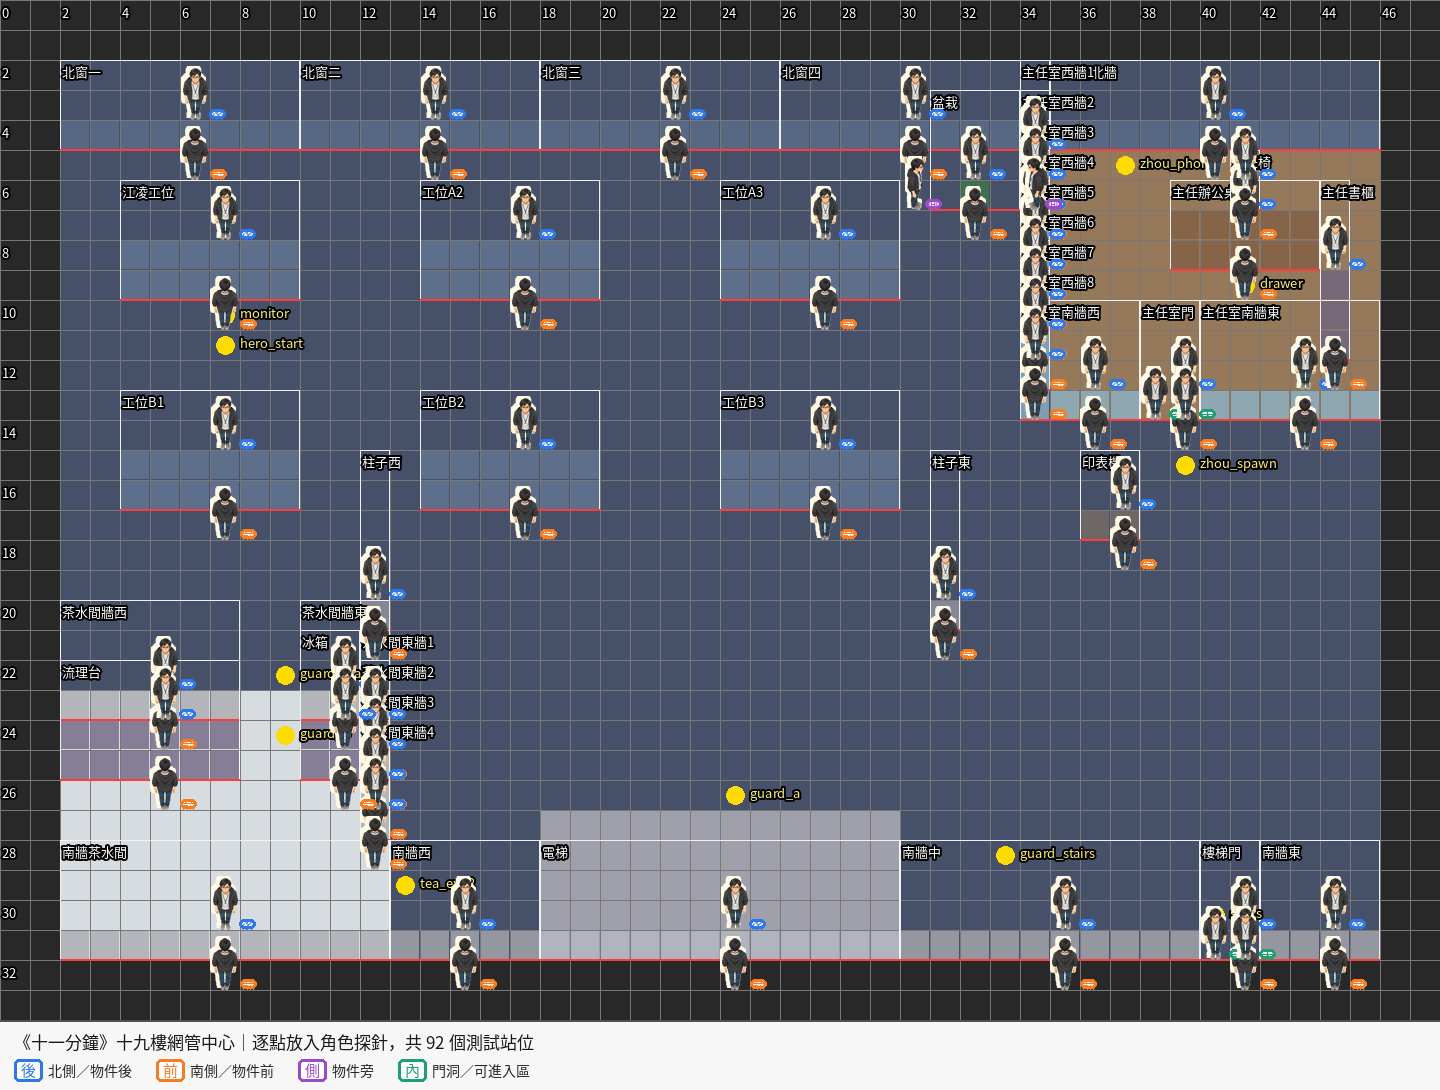
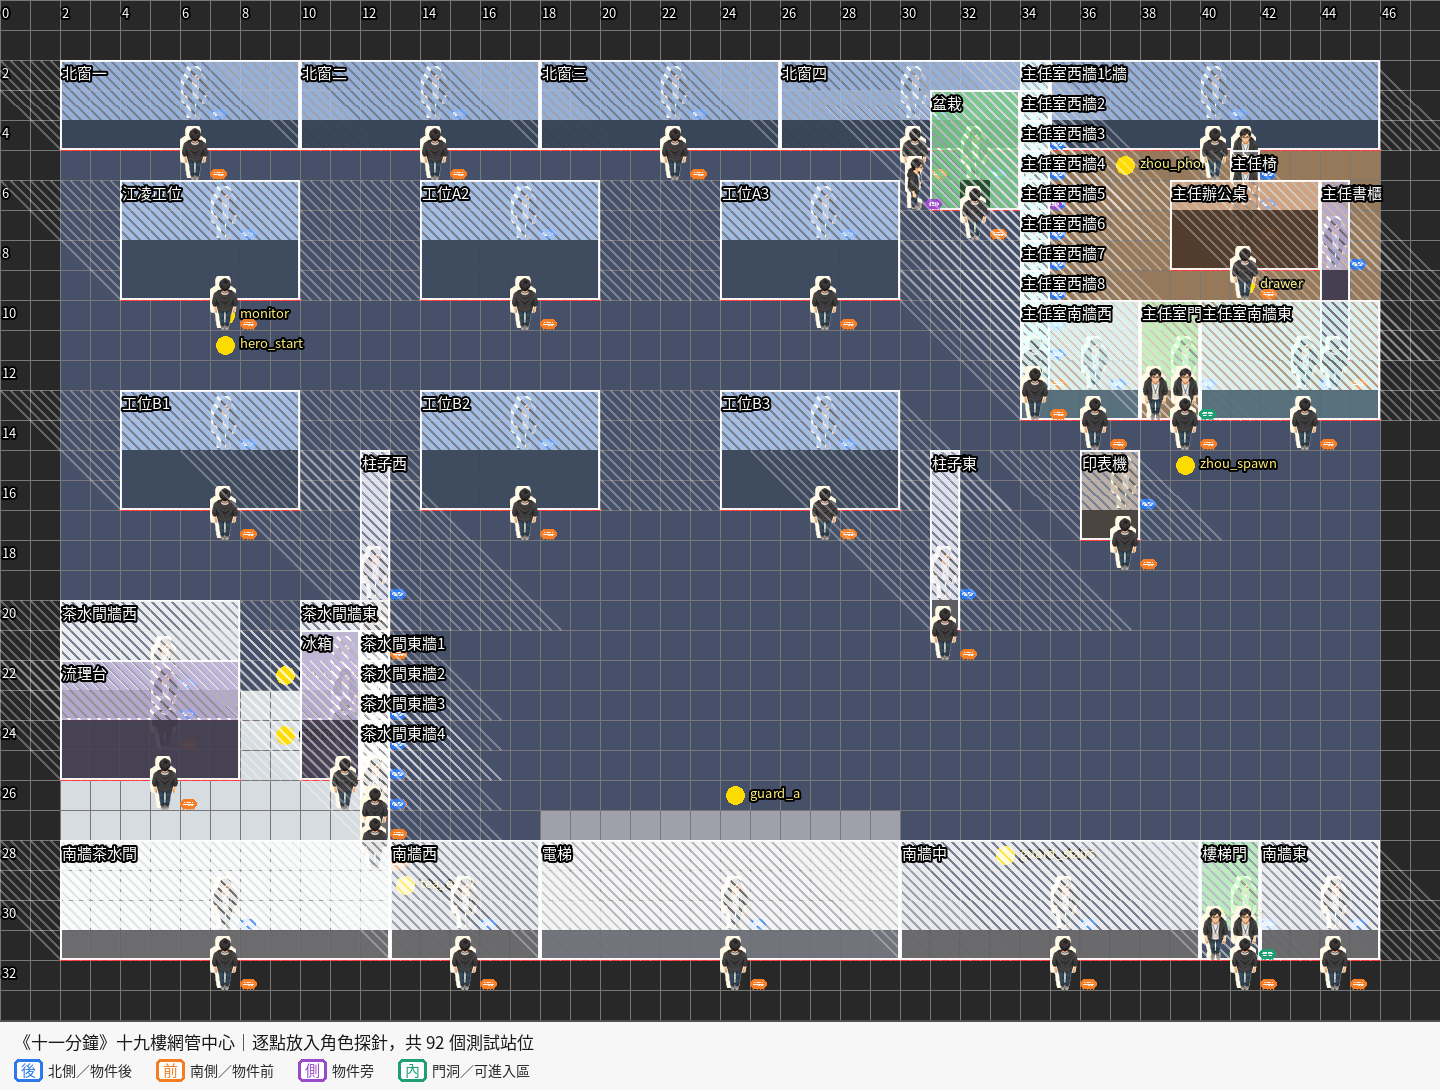
修正地圖測試角色的前後遮擋

diff --git a/_posts/2026-10-13-larch-rpg-map-occlusion.md b/_posts/2026-10-13-larch-rpg-map-occlusion.md
@@ -12,7 +12,7 @@ author: Yaze Lin
 
 我在製作《仙泉．香布纏．續》、《王子姬》和《十一分鐘》的地圖時，先用不同顏色的格子、透明圖框和測試角色確認空間關係。我和 AI 對著同一張色塊圖看動線、碰撞和前後順序，確認後才開始製作正式地圖。這個順序讓地圖設計能先被看見、討論和修改，之後才進入美術製作。
 
-本文的色塊圖依三個專案目前的地圖設計重新輸出，角色探針按現有物件座標重畫，呈現逐點放入角色確認遮擋的方法；每個圖示代表不同回合的一個測試站位。實際效果圖則於 2026 年 10 月 13 日從各作品目前的 Larch 本機預覽重新擷取。
+本文的色塊圖依三個專案目前的地圖設計重新輸出，角色探針按現有物件座標重畫，呈現逐點放入角色確認遮擋的方法；每個圖示代表不同回合的一個測試站位。合成時也依實際排序列放置物件色塊：斜紋遮罩蓋住物件後方的角色，站在排序列前方的角色則顯示在色塊上層。實際效果圖則於 2026 年 10 月 13 日從各作品目前的 Larch 本機預覽重新擷取。
 
 ## 先分清楚「站在哪裡」和「畫到哪裡」
 
@@ -27,7 +27,7 @@ author: Yaze Lin
 
 ## 先把地圖畫成色塊
 
-色塊圖用來檢查座標與空間關係；正式地面美術會在確認後再製作。每個物件依類型使用不同顏色，格線標出座標；圖框外框表示透明圖片會占到的畫面範圍，紅線標出排序列，黃色點標出原本的角色起點、走路點或互動位置。這次補上的小角色則是分層測試探針：藍色標在物件後方，橘色標在前方，紫色標在側邊，綠色標在門洞或可穿入處。圖上的每一個小角色代表一個測試站位，實際確認時會逐一移動角色，不是讓所有角色同時留在地圖上。
+色塊圖用來檢查座標與空間關係；正式地面美術會在確認後再製作。每個物件依類型使用不同顏色，格線標出座標；圖框外框表示透明圖片會占到的畫面範圍，紅線標出排序列，黃色點標出原本的角色起點、走路點或互動位置。這次補上的小角色則是分層測試探針：藍色標在物件後方，橘色標在前方，紫色標在側邊，綠色標在門洞或可穿入處。斜紋色塊會依排序蓋住後方角色；角色越過排序列到前方後，則會完整顯示在色塊上層。圖上的每一個小角色代表一個測試站位，實際確認時會逐一移動角色，不是讓所有角色同時留在地圖上。
 
 佔地與圖片範圍分開顯示後，就能看出「角色可以走進圖框，卻不能穿過家具底座」這種細節。角色探針是為了查看排序而暫時放置；如果站在牆後或阻擋格，只代表測試渲染，不代表正式地圖會開放那一格通行。實際能走的位置仍由佔地與碰撞設定決定。
 
@@ -46,9 +46,9 @@ author: Yaze Lin
 
 目前的 A4「五原．魏家門口」地圖，把門檻、屋前的柴架、罈子、木桶、長架與水缸，以及院子裡的木樁、劈好的柴、竹簍、柴捆、老樹和對面屋頂分開標示。門口與院子的走位先在色塊圖上確認，角色才能從門框前後通過。
 
-![《仙泉．香布纏．續》A4 五原．魏家門口地圖的多色格線規劃，角色探針標出屋身、門檻、屋前雜物、木樁、柴堆、竹簍、老樹和屋頂的前後或側邊測試位置](/images/blog/2026-10-13-larch-rpg-map-layering/xiangbu-xu-a4-plan.png)
+![《仙泉．香布纏．續》A4 五原．魏家門口地圖的多色格線規劃，斜紋物件色塊依排序列遮住後方測試角色，前方角色顯示在色塊上層](/images/blog/2026-10-13-larch-rpg-map-layering/xiangbu-xu-a4-plan.png)
 
-*色塊規劃：按目前 A4 物件配置標出 35 個測試站位；角色要逐一放進各處檢查，圖上的多個位置不代表同時出現。*
+*色塊規劃：按目前 A4 物件配置標出 35 個測試站位；斜紋色塊蓋住後方角色，未被遮住的角色在前方。角色要逐一放進各處檢查，圖上的多個位置不代表同時出現。*
 
 ![《仙泉．香布纏．續》A4 五原．魏家門口地圖的實際遊戲畫面，角色站在門檻前，可看到門框和院內物件的相對位置](/images/blog/2026-10-13-larch-rpg-map-layering/xiangbu-xu-a4-gameplay.jpg)
 
@@ -58,9 +58,9 @@ author: Yaze Lin
 
 育嬰室與王城廣場都採用細格設計。地面是底圖，家具或噴水池等物件則各自使用透明圖片；角色沿著佔地格行走，排序依照角色與物件所在的列調整。這種切分讓角色走到沙發、欄杆或噴水池前後時，能呈現合適的遮擋。
 
-![《王子姬》王城中央廣場的色塊設計圖，在噴水池、長椅、樹、花圃、路燈、旗桿和公告欄前後放入角色探針](/images/blog/2026-10-13-larch-rpg-map-layering/prince-hime-plaza-plan.png)
+![《王子姬》王城中央廣場的色塊設計圖，斜紋前景色塊蓋住噴水池、長椅、樹、花圃、路燈、旗桿和公告欄後方的測試角色](/images/blog/2026-10-13-larch-rpg-map-layering/prince-hime-plaza-plan.png)
 
-*色塊規劃：20 件物件各有前後測試角色，共標出 40 個探針位置；藍色看物件後方，橘色看物件前方。*
+*色塊規劃：20 件物件各有前後測試角色，共標出 40 個探針位置；斜紋遮住物件後方的角色，橘色站位顯示角色在物件前方。*
 
 ![《王子姬》王城中央廣場的本機預覽畫面，一名角色站在噴水池南側，周圍有長椅、花圃和樹木](/images/blog/2026-10-13-larch-rpg-map-layering/prince-hime-plaza-gameplay.png)
 
@@ -70,9 +70,9 @@ author: Yaze Lin
 
 《十一分鐘》的十九樓網管中心把工位、隔間牆、茶水間和主任辦公室放進同一張 RPG 地圖。工位桌面和螢幕往上延伸，角色走到桌子後面時會被桌面遮住；主任室與樓梯門則在佔地格裡留出門洞。盆栽葉片可以把圖片範圍往側邊延伸，碰撞仍依照地面佔地處理。
 
-![《十一分鐘》十九樓網管中心的多色格線配置圖，角色探針覆蓋工位、窗牆、玻璃隔間、茶水間、電梯與門洞的前後測試位置](/images/blog/2026-10-13-larch-rpg-map-layering/eleven-minutes-office-plan.png)
+![《十一分鐘》十九樓網管中心的多色格線配置圖，斜紋前景色塊依排序列遮住工位、窗牆、玻璃隔間、茶水間、電梯與門洞後方的測試角色](/images/blog/2026-10-13-larch-rpg-map-layering/eleven-minutes-office-plan.png)
 
-*色塊規劃：把牆柱的獨立排序段也列入後，共標出 92 個前後、側邊與門洞測試站位；每次移動一個角色逐點確認。*
+*色塊規劃：把牆柱的獨立排序段也列入後，共標出 92 個前後、側邊與門洞測試站位；斜紋色塊會依排序列遮住後方角色，逐點移動時可以確認角色走到前方後會重新顯示。*
 
 ![《十一分鐘》十九樓網管中心的本機預覽畫面，主角在工位旁，周主任位於辦公室隔間門口，警衛在下方走道](/images/blog/2026-10-13-larch-rpg-map-layering/eleven-minutes-office-gameplay.jpg)
 
